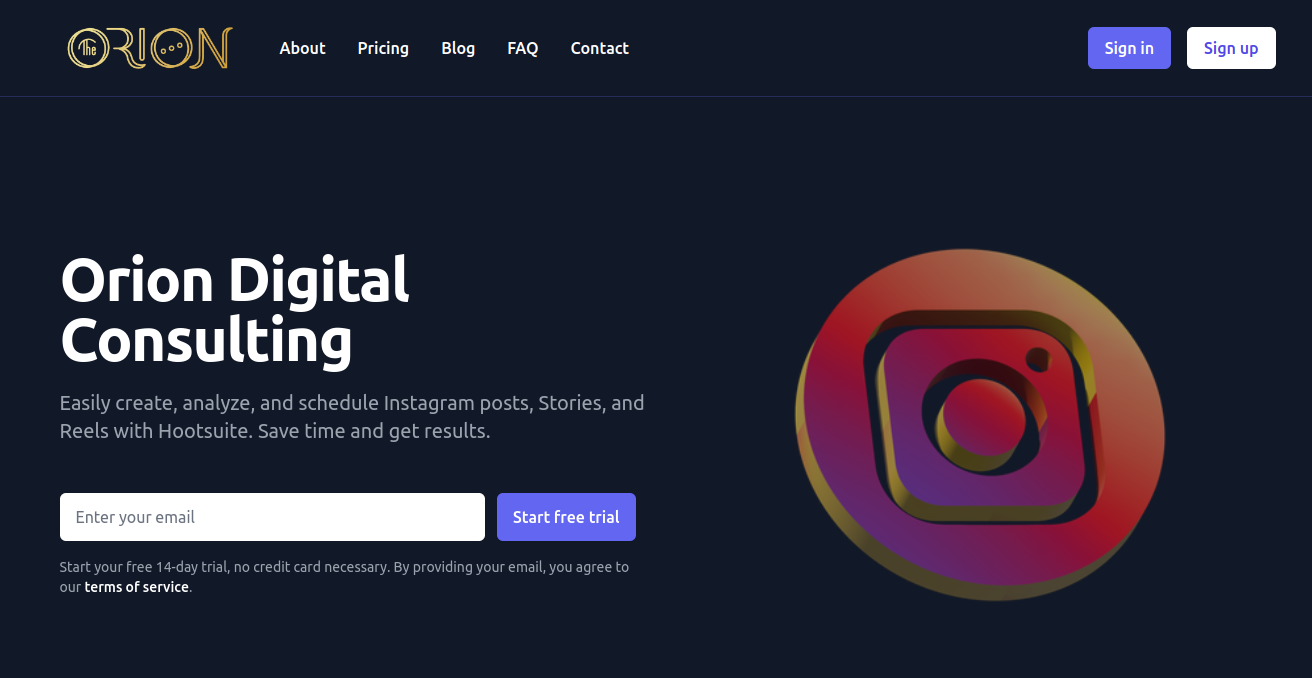
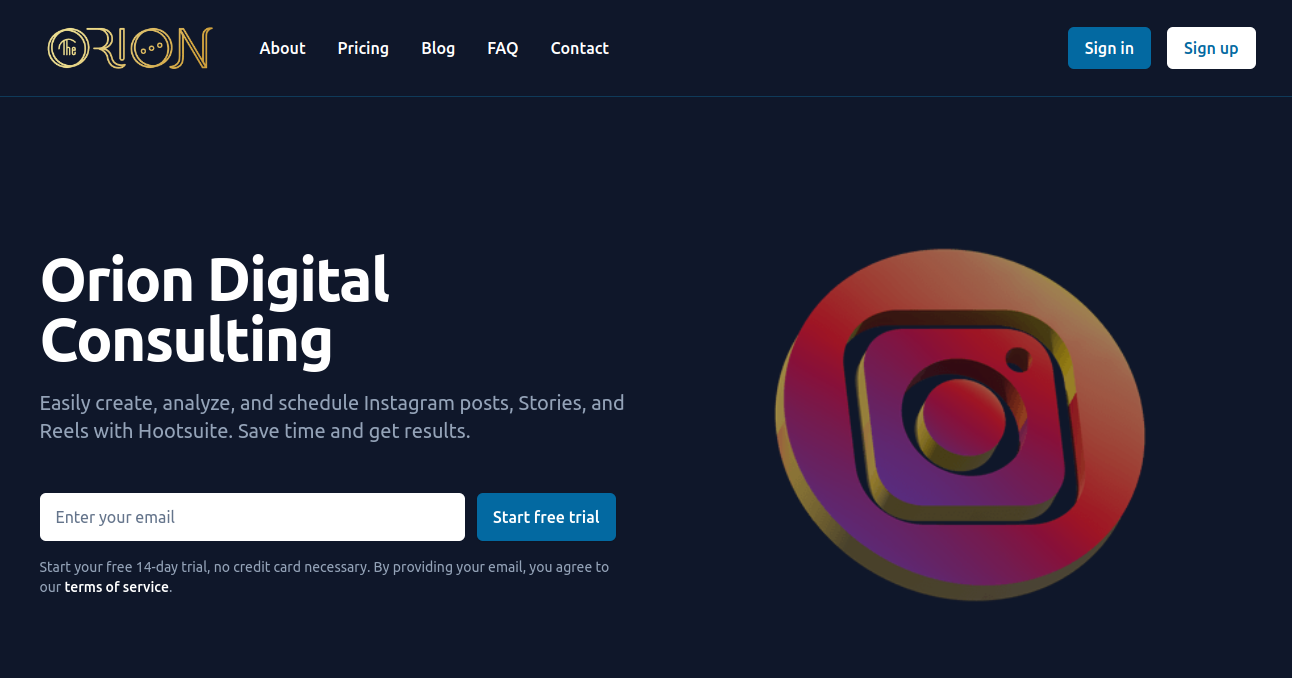
update css

diff --git a/src/routes/contact/ContactForm.js b/src/routes/contact/ContactForm.js
@@ -189,7 +189,7 @@ export default function ContactForm() {
           <section className="text-right sm:col-span-2">
             <button
               type="submit"
-              className="inline-flex items-center px-4 py-2 border border-transparent shadow-sm text-base font-medium rounded-md text-white bg-sky-700 hover:bg-sky-600 focus:outline-none focus:ring-2 focus:ring-offset-2 focus:ring-sky-500"
+              className="inline-flex items-center px-4 py-2 border border-transparent shadow-sm text-base font-medium rounded-md text-white bg-sky-700 hover:bg-sky-600 focus:outline-none focus:ring-2 focus:ring-offset-2 focus:ring-sky-500 focus:ring-offset-slate-900"
             >
               Submit
             </button>

diff --git a/src/routes/landing/Hero.js b/src/routes/landing/Hero.js
@@ -50,7 +50,7 @@ export default function Hero() {
                       <button
                         type="button"
                         onClick={SubmitEmail}
-                        className="block w-full py-3 px-4 rounded-md shadow bg-sky-700 text-white font-medium hover:bg-sky-600 focus:outline-none focus:ring-2 focus:ring-offset-2 focus:ring-sky-300 focus:ring-offset-slate-900"
+                        className="block w-full py-3 px-4 rounded-md shadow bg-sky-700 text-white font-medium hover:bg-sky-600 focus:outline-none focus:ring-2 focus:ring-offset-2 focus:ring-sky-500 focus:ring-offset-slate-900"
                       >
                         Start free trial
                       </button>

diff --git a/src/routes/sign-in/SignInForm.js b/src/routes/sign-in/SignInForm.js
@@ -62,7 +62,7 @@ export default function SignInForm() {
       <section>
         <button
           type="submit"
-          className="group relative w-full flex justify-center py-3 px-4 border border-transparent text-sm font-medium rounded-md text-white bg-sky-600 hover:bg-sky-700 focus:outline-none focus:ring-2 focus:ring-offset-2 focus:ring-sky-500"
+          className="group relative w-full flex justify-center py-3 px-4 border border-transparent text-sm font-medium rounded-md text-white bg-sky-700 hover:bg-sky-600 focus:outline-none focus:ring-2 focus:ring-offset-2 focus:ring-sky-500 focus:ring-offset-slate-900"
         >
           Sign in
         </button>

diff --git a/src/routes/sign-up/SignUpForm.js b/src/routes/sign-up/SignUpForm.js
@@ -64,7 +64,7 @@ export default function SignUpForm() {
       <section>
         <button
           type="submit"
-          className="group relative w-full flex justify-center py-3 px-4 border border-transparent text-sm font-medium rounded-md text-white bg-sky-600 hover:bg-sky-700 focus:outline-none focus:ring-2 focus:ring-offset-2 focus:ring-sky-500"
+          className="group relative w-full flex justify-center py-3 px-4 border border-transparent text-sm font-medium rounded-md text-white bg-sky-700 hover:bg-sky-600 focus:outline-none focus:ring-2 focus:ring-offset-2 focus:ring-sky-500 focus:ring-offset-slate-900"
         >
           Sign up
         </button>
